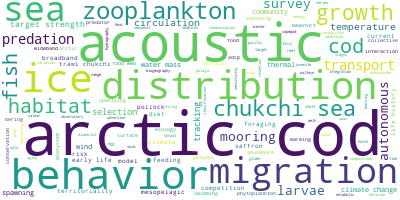
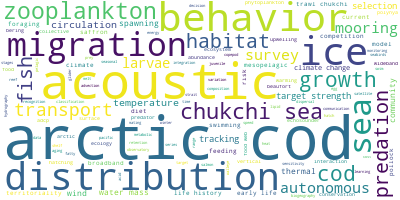
Rose 95

diff --git a/papers/ecology/fishes/Rose1995JMR.md b/papers/ecology/fishes/Rose1995JMR.md
@@ -1,0 +1,37 @@
+05/14/20
+## Authors:
+Rose, G. A. and DeYoung, B. and Colbourne, E. B.
+## Title:
+Cod (Gadus morhua L.) migration speeds and transport relative to currents on the north-east Newfoundland Shelf
+## Keywords:
+cod, migration, swimming speed, echosounder
+## Geographic Coverage
+Newfoundland Shelf
+## Field Dates:
+06/06/1990 - 07/15/1992
+## Significance:
+Observations of cod migration behavior by tracking agreggations using acoustics. They identify changes in school behavior with seaward/shoreward flow that suggest active transport.
+
+## Notes:
+Fish can develop specialized magration behaviors to assist them in certain environmental conditions. However to study migratory behaviors, you have to understand swim speed through the water which requires both fish movement and currents to be known, which are difficult to observe concurrently.
+
+Atlantic cod spawn on the NE Newfoundland shelf in late winter and migrate shoreward to summer feeding grounds. These typically occur along deep basins where warmer water exists. At the beginning of their migration, they move south along with the currents, however once they turn west, the dominant currents may be flowing offshore. Here, they hypothesize that: 1) cod drift when advantageous, 2) cod actively swim against opposing flows and 3) they migrate against these flows. They tracked fish schools during their spring migrations.
+
+Ship-based echosounders were used to continuously survey an agregation by criss-crossing to define the edges of the shoal. Centroids were then calculated as the mean position of the agreggation weighted by the density (CG).  Height off bottom was also recorded. Temperature profiles were taken daily at stations along the migration route within the study area, and the dominant direction of the current was identified by useing the ascent/descent of the 2C isotherm.
+
+Over the 3 years of field studies:
+- Cod displacement ranged from 6.6 to 24 km d-1
+- ground speeds ranged from 0.08 to 0.28 m s-1
+- largest movements along the route corresponded with the largest rise of fish off bottom
+- when more sedentary, most fish were within 50m of bottom, and stalling typically coincided with cooler waters.
+- daily swim speeds were slightly greater than ground speeds, averaging ~10 cm s-1
+
+Migration rates are slow but highly variable, and food availability and type may also drive changes in speed. These speeds are well below maximum swimming speeds demonstrated in a lab. Cod tended to move along the migration route with the warmer water, and these have previously been seen to be associated with thermal conditions.
+
+Duriing migration, cod moved upward in the water column as expected, which potentially resulted in increased buoyancy and thus reduced energy cost. There were periods when cod moved with the flow and speeds/distrances travelled were above what could be attributed to currents or swimming alone. There are also instances where cod drifted with very low to no swim speed. There was almost no movement across the route, and always directed in the mirgation path.
+
+When flows were seaward, cod did not retreat with the flow, but were observed to stay closer to the bottom (active transport). There was no evidence of cod trying to advance during these seaward flows. Energetically, active transport may be advantageous. After not feeding through winter, the fish are in poor condition and need the energetic savings of utilizing transport.
+
+The ability to discern the centroids of the population varied among years and becomes more difficult with school fragmentation. Fish att the front of the migration appear to be larger. However despite the day-to-day variation in location, it was possible to identify the migration routes and these larger route behaviors were observable across years. The water conditions appear to be relativelye stable year to year as well, and thus the axis of movement reflects the current.
+
+They end by discussing that these routes could also be learned, and thus persistence may be important as he younger fish follow the smaller fish, regardless of if we think they can identify the clues. The evidence for this is the cross-track "error" of fish moving perpendicular to the route, which appeared to be age-associated (i.e., younger fish "wander").

diff --git a/README.md b/README.md
@@ -121,6 +121,8 @@ Notes (author, year, journal in file header) on readings.  Top of each note docu
      * Showed that for this population of loricariids, predation avoidance was more important than resource exploitation, and is dependent on age. 
 * [Robinson2019MEPS - Predation strategies of larval clownfish capturing evasive copepod prey](https://github.com/leviner/ReadingList/tree/master/papers/ecology/fishes/Robinson2019MEPS.md) 
      * Observe and quantify the feeding success and failure of larval fish as a function of both fish age (day post-hatch) and copepod stage. 
+* [Rose1995JMR - Cod (Gadus morhua L.) migration speeds and transport relative to currents on the north-east Newfoundland Shelf](https://github.com/leviner/ReadingList/tree/master/papers/ecology/fishes/Rose1995JMR.md) 
+     * Observations of cod migration behavior by tracking agreggations using acoustics. They identify changes in school behavior with seaward/shoreward flow that suggest active transport. 
 * [ScheuerellSchindler2003E - Diel Vertical Migration by Juvenile Sockeye Salmon: Empirical Evidence for the Antipredation Window](https://github.com/leviner/ReadingList/tree/master/papers/ecology/fishes/ScheuerellSchindler2003E.md) 
      * Juvenile sockeye migrate to maintain a specific light environment to minimize predation risk in lakes. 
 * [Sisneros2009IZ - Adaptive hearing in the vocal plainfin midshipman fish: getting in tune for the breeding season and implications for acoustic communication.](https://github.com/leviner/ReadingList/tree/master/papers/ecology/fishes/Sisneros2009IZ.md) 
